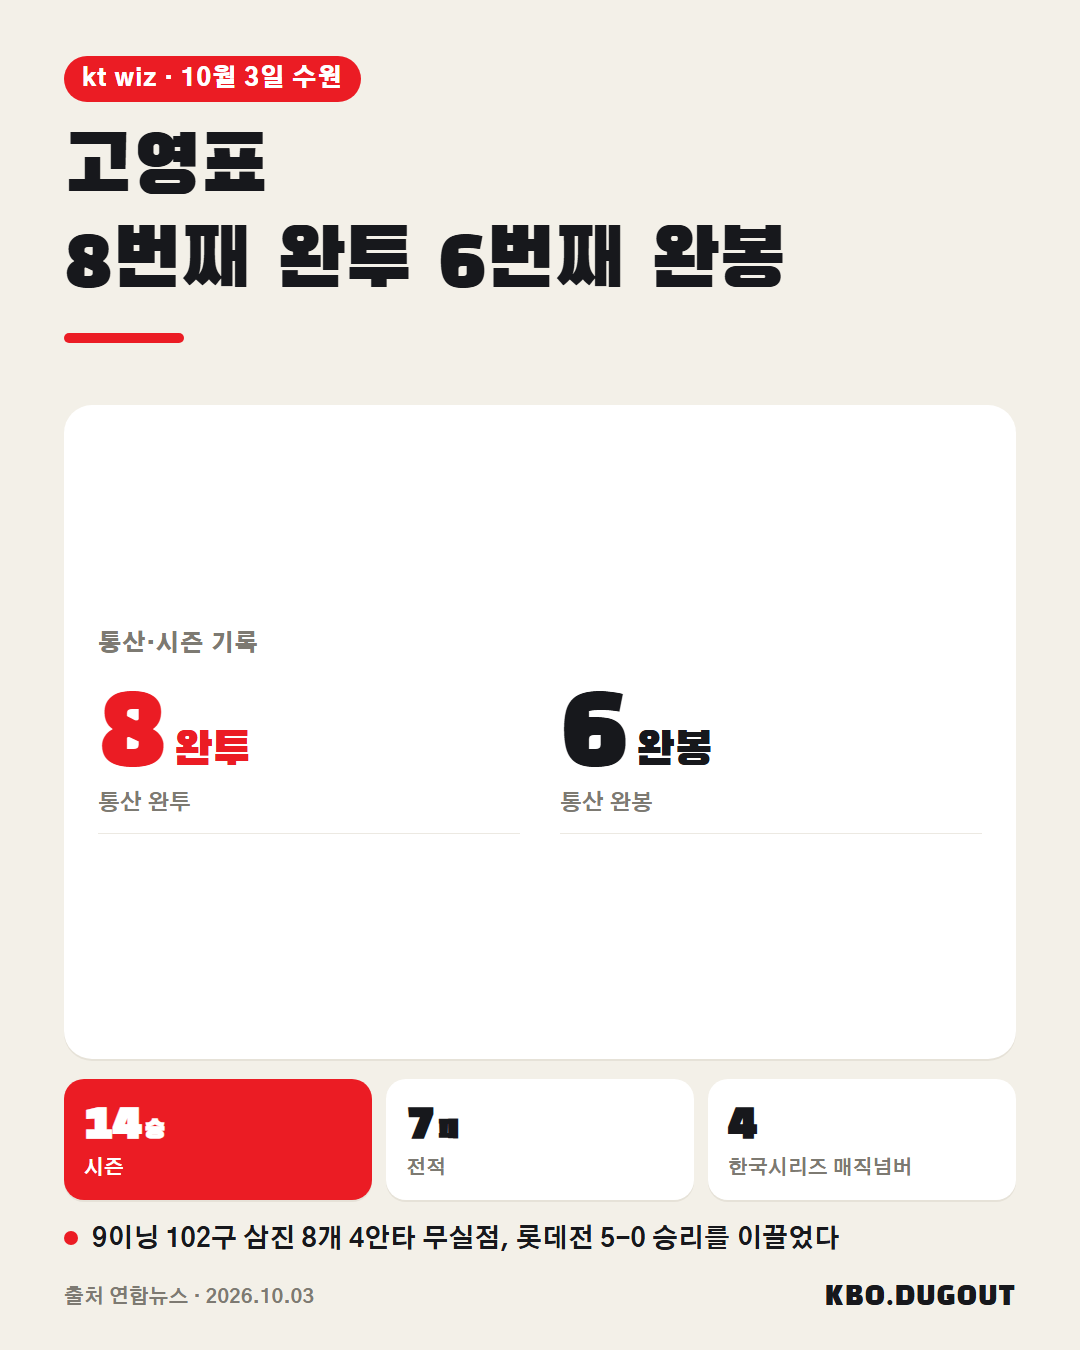
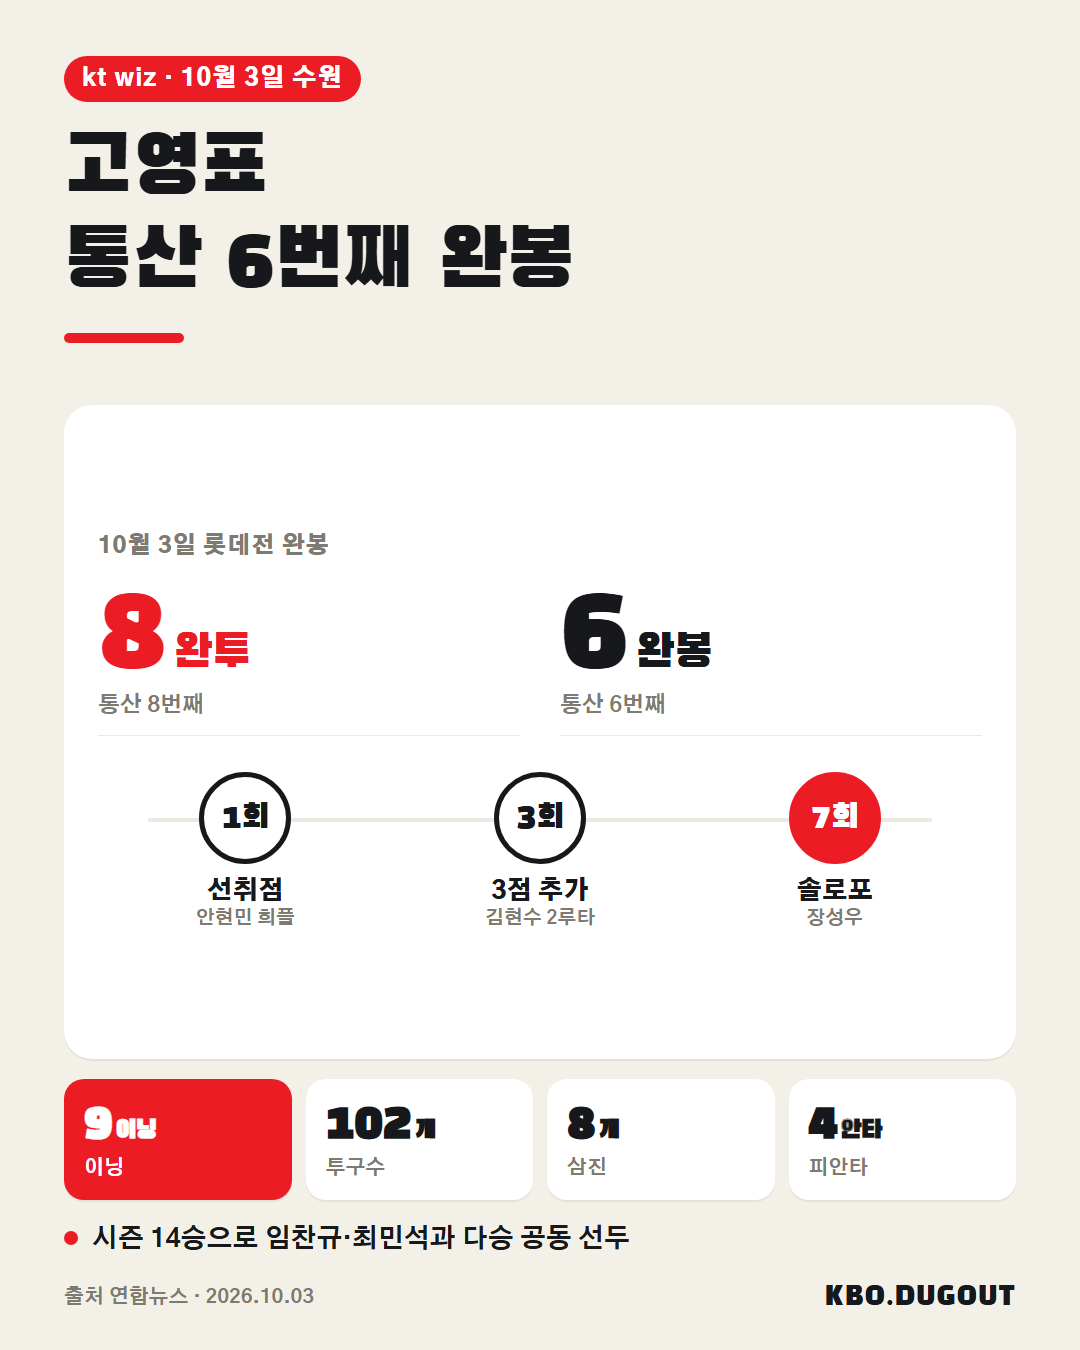
chore: publish review batch 84eb8da34e7e

diff --git a/review/2026-10-03-84eb8da34e7e.html b/review/2026-10-03-84eb8da34e7e.html
@@ -1,0 +1,36 @@
+<!doctype html>
+<html lang="ko">
+<head>
+  <meta charset="utf-8">
+  <meta name="viewport" content="width=device-width, initial-scale=1">
+  <title>콘텐츠 검토</title>
+  <style>
+    * { box-sizing: border-box; }
+    body { margin: 0; background: #f3efe4; color: #182126; font-family: sans-serif; }
+    main { width: min(100%, 720px); margin: auto; padding: 24px 16px 48px; }
+    article { margin: 0 0 32px; padding-bottom: 32px; border-bottom: 1px solid #aaa397; }
+    .carousel { display: grid; gap: 12px; }
+    img { display: block; width: 100%; max-width: 100%; height: auto; }
+    .meta { color: #5f625e; font-size: .85rem; }
+    .body { white-space: pre-wrap; line-height: 1.65; }
+    .qa { padding: 12px; background: #e5ded0; }
+  </style>
+</head>
+<body><main><h1>콘텐츠 검토</h1><article>
+  <p class="meta">Draft #127</p>
+  <div class="carousel">
+
+  </div>
+  <p class="body">고영표가 개인 통산 8번째 완투이자 6번째 완봉승으로 시즌 14승째를 올리며 임찬규, 최민석과 다승 공동 선두에 올랐습니다. kt는 한국시리즈 직행 매직넘버를 5로 줄였습니다.</p>
+  <p class="qa"><strong>QA</strong> AI 검수 실패</p>
+</article>
+<article>
+  <p class="meta">Draft #128</p>
+  <div class="carousel">
+    <img src="../cards/draft-128-01.png" alt="Draft #128 카드 1">
+  </div>
+  <p class="body">고영표가 롯데전에서 9이닝 4안타 무실점으로 완봉승을 거두며 개인 통산 8번째 완투이자 6번째 완봉을 기록했다. 시즌 14승째로 다승 공동 선두에 올랐고, kt는 5-0 승리로 한국시리즈 직행 매직넘버 5를 기록했다.
+#KBO #프로야구 #야구 #고영표 #KT위즈</p>
+  <p class="qa"><strong>QA</strong> AI 검수 실패</p>
+</article></main></body>
+</html>
